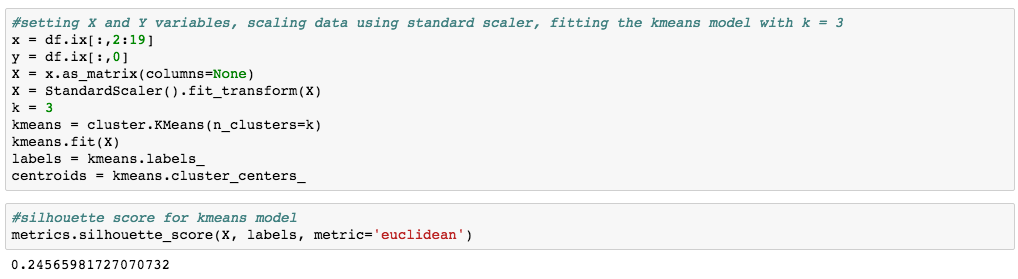
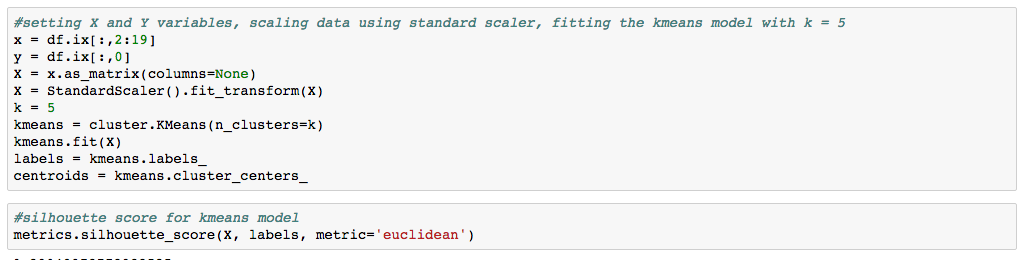
fix

Changed region(s): [[0.0, 0.0615, 1.0, 0.7385], [0.0, 0.7692, 1.0, 1.0]]

diff --git a/_posts/2016-7-28-AirportDelays .md b/_posts/2016-7-28-AirportDelays .md
@@ -29,7 +29,7 @@ Before getting to Principal Component Analysis, I ran the clustering methods on 
 
 **K-Means Clustering**
 After scaling the data using the StandardScarler in sklearn, I ran a k-means clustering and measure with a silhouette score. We need 
-to determine the number of clusters,k, so we can fit the model a few times until we find the maximum silhouette score which happens to be 0.292
+to determine the number of clusters,k, so we can fit the model a few times until we find the maximum silhouette score which happens to be 0.290
 with a k value equal to 5. Code below:
 
 ![functions](/images/airport/kmeans1.png)
